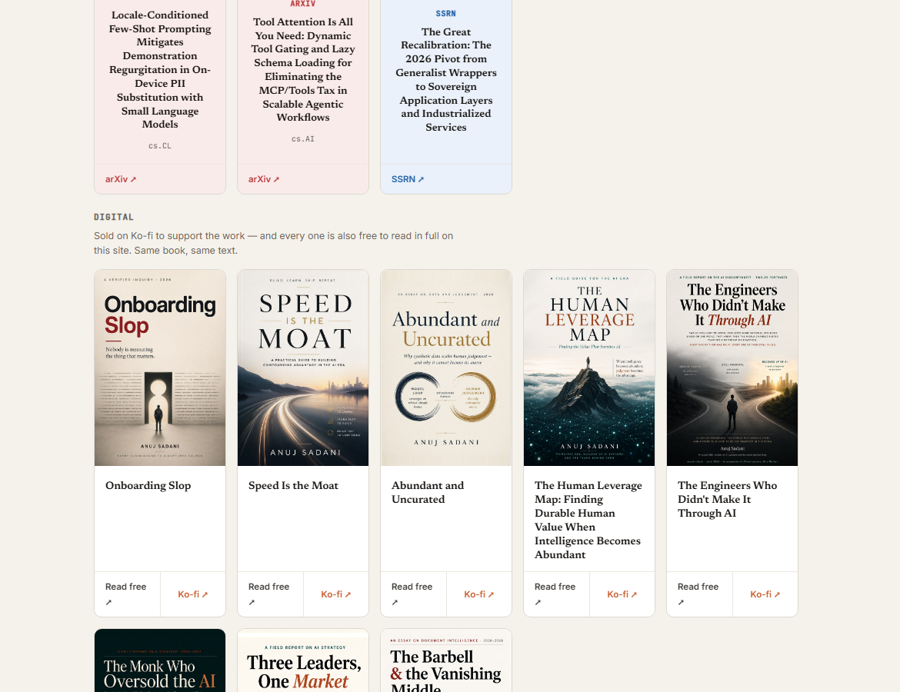
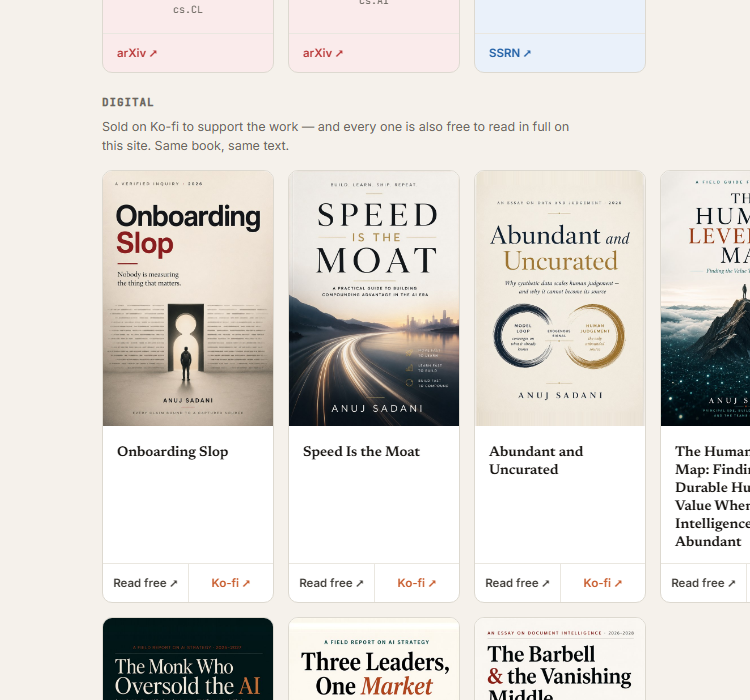
Shorten the hosted link to "Read"
The note under the heading already says the hosted edition is free and
identical, so the button does not need to repeat it -- and the word
"free" sitting directly beside a paid link quietly argues against the
paid one.

Claude-Session: https://claude.ai/code/session_01RrcapMg3di6TjNiqiNoHhH

diff --git a/index.html b/index.html
@@ -801,13 +801,13 @@
         <img class="flipcard-cover" src="/assets/covers/onboarding-slop.jpg" alt="Onboarding Slop cover" loading="lazy" decoding="async">
         <span class="flipcard-caption">Onboarding Slop</span>
             </button>
-            <div class="flipcard-linkrow"><a class="flipcard-link flipcard-link--free" href="/onboarding-slop/">Read free ↗</a><a class="flipcard-link" href="https://ko-fi.com/s/c0d90b0885" target="_blank" rel="noopener">Ko-fi ↗</a></div>
+            <div class="flipcard-linkrow"><a class="flipcard-link flipcard-link--free" href="/onboarding-slop/">Read ↗</a><a class="flipcard-link" href="https://ko-fi.com/s/c0d90b0885" target="_blank" rel="noopener">Ko-fi ↗</a></div>
           </div>
           <div class="flipcard-face flipcard-back">
             <button class="flipcard-toggle" type="button" aria-expanded="false" aria-label="Hide details for Onboarding Slop">
         <span class="flipcard-desc">Onboarding a new engineer quietly became a link to a knowledge base and a link to an assistant — ask it anything. The feedback loop that would catch the cost is broken in a known direction: two unrelated studies found what people report about an AI tool comes apart from what measurement shows they learned, and the error favours whatever felt smoothest. The studies that test understanding run for an hour; the ones that run for weeks count merged code; nothing occupies the space between. The mistake is not adopting AI. It is adopting autonomy.</span>
             </button>
-            <div class="flipcard-linkrow"><a class="flipcard-link flipcard-link--free" href="/onboarding-slop/">Read free ↗</a><a class="flipcard-link" href="https://ko-fi.com/s/c0d90b0885" target="_blank" rel="noopener">Ko-fi ↗</a></div>
+            <div class="flipcard-linkrow"><a class="flipcard-link flipcard-link--free" href="/onboarding-slop/">Read ↗</a><a class="flipcard-link" href="https://ko-fi.com/s/c0d90b0885" target="_blank" rel="noopener">Ko-fi ↗</a></div>
           </div>
         </div>
       </div>
@@ -818,13 +818,13 @@
         <img class="flipcard-cover" src="/assets/covers/speed-is-the-moat.jpg" alt="Speed Is the Moat cover" loading="lazy" decoding="async">
         <span class="flipcard-caption">Speed Is the Moat</span>
             </button>
-            <div class="flipcard-linkrow"><a class="flipcard-link flipcard-link--free" href="/speed-is-the-moat/">Read free ↗</a><a class="flipcard-link" href="https://ko-fi.com/s/17808b2e0b" target="_blank" rel="noopener">Ko-fi ↗</a></div>
+            <div class="flipcard-linkrow"><a class="flipcard-link flipcard-link--free" href="/speed-is-the-moat/">Read ↗</a><a class="flipcard-link" href="https://ko-fi.com/s/17808b2e0b" target="_blank" rel="noopener">Ko-fi ↗</a></div>
           </div>
           <div class="flipcard-face flipcard-back">
             <button class="flipcard-toggle" type="button" aria-expanded="false" aria-label="Hide details for Speed Is the Moat">
         <span class="flipcard-desc">Once token cost is understood, the claim goes, inference speed is the next durable advantage. It isn't — speed is a lead with a half-life of one to two months, with inference software delivering up to 2x more throughput on unchanged silicon inside a single month. What survives is narrower: latency is a priced contract term, not an engineering win. The cover states the proposition; the book is the audit.</span>
             </button>
-            <div class="flipcard-linkrow"><a class="flipcard-link flipcard-link--free" href="/speed-is-the-moat/">Read free ↗</a><a class="flipcard-link" href="https://ko-fi.com/s/17808b2e0b" target="_blank" rel="noopener">Ko-fi ↗</a></div>
+            <div class="flipcard-linkrow"><a class="flipcard-link flipcard-link--free" href="/speed-is-the-moat/">Read ↗</a><a class="flipcard-link" href="https://ko-fi.com/s/17808b2e0b" target="_blank" rel="noopener">Ko-fi ↗</a></div>
           </div>
         </div>
       </div>
@@ -835,13 +835,13 @@
         <img class="flipcard-cover" src="/assets/covers/abundant-and-uncurated.jpg" alt="Abundant and Uncurated cover" loading="lazy" decoding="async">
         <span class="flipcard-caption">Abundant and Uncurated</span>
             </button>
-            <div class="flipcard-linkrow"><a class="flipcard-link flipcard-link--free" href="/abundant-and-uncurated/">Read free ↗</a><a class="flipcard-link" href="https://ko-fi.com/s/000d383639" target="_blank" rel="noopener">Ko-fi ↗</a></div>
+            <div class="flipcard-linkrow"><a class="flipcard-link flipcard-link--free" href="/abundant-and-uncurated/">Read ↗</a><a class="flipcard-link" href="https://ko-fi.com/s/000d383639" target="_blank" rel="noopener">Ko-fi ↗</a></div>
           </div>
           <div class="flipcard-face flipcard-back">
             <button class="flipcard-toggle" type="button" aria-expanded="false" aria-label="Hide details for Abundant and Uncurated">
         <span class="flipcard-desc">Machine judgement already beats human annotation on accuracy and cost, so the case for keeping people in the loop cannot rest on being better. A model that verifies its own synthetic data plateaus at what it already knows, and evaluation criteria cannot be fixed before you look at the outputs. Machines apply judgement; humans form the criteria and supply the signal from outside the system. Every claim bound to a quoted source, including the two that failed.</span>
             </button>
-            <div class="flipcard-linkrow"><a class="flipcard-link flipcard-link--free" href="/abundant-and-uncurated/">Read free ↗</a><a class="flipcard-link" href="https://ko-fi.com/s/000d383639" target="_blank" rel="noopener">Ko-fi ↗</a></div>
+            <div class="flipcard-linkrow"><a class="flipcard-link flipcard-link--free" href="/abundant-and-uncurated/">Read ↗</a><a class="flipcard-link" href="https://ko-fi.com/s/000d383639" target="_blank" rel="noopener">Ko-fi ↗</a></div>
           </div>
         </div>
       </div>
@@ -852,13 +852,13 @@
         <img class="flipcard-cover" src="/assets/covers/the-human-leverage-map.jpg" alt="The Human Leverage Map: Finding Durable Human Value When Intelligence Becomes Abundant cover" loading="lazy" decoding="async">
         <span class="flipcard-caption">The Human Leverage Map: Finding Durable Human Value When Intelligence Becomes Abundant</span>
             </button>
-            <div class="flipcard-linkrow"><a class="flipcard-link flipcard-link--free" href="/the-human-leverage-map/">Read free ↗</a><a class="flipcard-link" href="https://ko-fi.com/s/2806feff25" target="_blank" rel="noopener">Ko-fi ↗</a></div>
+            <div class="flipcard-linkrow"><a class="flipcard-link flipcard-link--free" href="/the-human-leverage-map/">Read ↗</a><a class="flipcard-link" href="https://ko-fi.com/s/2806feff25" target="_blank" rel="noopener">Ko-fi ↗</a></div>
           </div>
           <div class="flipcard-face flipcard-back">
             <button class="flipcard-toggle" type="button" aria-expanded="false" aria-label="Hide details for The Human Leverage Map: Finding Durable Human Value When Intelligence Becomes Abundant">
         <span class="flipcard-desc">When intelligence becomes abundant and cheap, judgment becomes scarce. A two-axis map for finding the human value that survives AI: where your leverage goes when the machine can produce the answer, how that leverage collapses without anyone noticing, and how to defend the faculty it depends on. The full designed PDF.</span>
             </button>
-            <div class="flipcard-linkrow"><a class="flipcard-link flipcard-link--free" href="/the-human-leverage-map/">Read free ↗</a><a class="flipcard-link" href="https://ko-fi.com/s/2806feff25" target="_blank" rel="noopener">Ko-fi ↗</a></div>
+            <div class="flipcard-linkrow"><a class="flipcard-link flipcard-link--free" href="/the-human-leverage-map/">Read ↗</a><a class="flipcard-link" href="https://ko-fi.com/s/2806feff25" target="_blank" rel="noopener">Ko-fi ↗</a></div>
           </div>
         </div>
       </div>
@@ -869,13 +869,13 @@
         <img class="flipcard-cover" src="/assets/covers/the-failed-engineer.jpg" alt="The Engineers Who Didn't Make It Through AI cover" loading="lazy" decoding="async">
         <span class="flipcard-caption">The Engineers Who Didn't Make It Through AI</span>
             </button>
-            <div class="flipcard-linkrow"><a class="flipcard-link flipcard-link--free" href="/the-failed-engineer/">Read free ↗</a><a class="flipcard-link" href="https://ko-fi.com/s/70b71a3671" target="_blank" rel="noopener">Ko-fi ↗</a></div>
+            <div class="flipcard-linkrow"><a class="flipcard-link flipcard-link--free" href="/the-failed-engineer/">Read ↗</a><a class="flipcard-link" href="https://ko-fi.com/s/70b71a3671" target="_blank" rel="noopener">Ko-fi ↗</a></div>
           </div>
           <div class="flipcard-face flipcard-back">
             <button class="flipcard-toggle" type="button" aria-expanded="false" aria-label="Hide details for The Engineers Who Didn't Make It Through AI">
         <span class="flipcard-desc">Twelve brilliant principal engineers made rational decisions based on the world they knew, then the world changed faster than their optimization function. The Craftsman, the Skeptic, the Lone Expert, the Builder: twelve failure modes of senior technical leadership during a discontinuity, braided into one argument. A companion to Three Leaders, One Market, turned on people instead of firms. No villains, only people who optimized for a reality that stopped existing.</span>
             </button>
-            <div class="flipcard-linkrow"><a class="flipcard-link flipcard-link--free" href="/the-failed-engineer/">Read free ↗</a><a class="flipcard-link" href="https://ko-fi.com/s/70b71a3671" target="_blank" rel="noopener">Ko-fi ↗</a></div>
+            <div class="flipcard-linkrow"><a class="flipcard-link flipcard-link--free" href="/the-failed-engineer/">Read ↗</a><a class="flipcard-link" href="https://ko-fi.com/s/70b71a3671" target="_blank" rel="noopener">Ko-fi ↗</a></div>
           </div>
         </div>
       </div>
@@ -886,13 +886,13 @@
         <img class="flipcard-cover" src="/assets/covers/the-monk-who-oversold-the-ai.jpg" alt="The Monk Who Oversold the AI cover" loading="lazy" decoding="async">
         <span class="flipcard-caption">The Monk Who Oversold the AI</span>
             </button>
-            <div class="flipcard-linkrow"><a class="flipcard-link flipcard-link--free" href="/the-monk-who-oversold-the-ai/">Read free ↗</a><a class="flipcard-link" href="https://ko-fi.com/s/02e8517c71" target="_blank" rel="noopener">Ko-fi ↗</a></div>
+            <div class="flipcard-linkrow"><a class="flipcard-link flipcard-link--free" href="/the-monk-who-oversold-the-ai/">Read ↗</a><a class="flipcard-link" href="https://ko-fi.com/s/02e8517c71" target="_blank" rel="noopener">Ko-fi ↗</a></div>
           </div>
           <div class="flipcard-face flipcard-back">
             <button class="flipcard-toggle" type="button" aria-expanded="false" aria-label="Hide details for The Monk Who Oversold the AI">
         <span class="flipcard-desc">Why borrowed foundation-model capability is shared capability — how a product leader scales on it for two years and still dissolves the only moat the product had.</span>
             </button>
-            <div class="flipcard-linkrow"><a class="flipcard-link flipcard-link--free" href="/the-monk-who-oversold-the-ai/">Read free ↗</a><a class="flipcard-link" href="https://ko-fi.com/s/02e8517c71" target="_blank" rel="noopener">Ko-fi ↗</a></div>
+            <div class="flipcard-linkrow"><a class="flipcard-link flipcard-link--free" href="/the-monk-who-oversold-the-ai/">Read ↗</a><a class="flipcard-link" href="https://ko-fi.com/s/02e8517c71" target="_blank" rel="noopener">Ko-fi ↗</a></div>
           </div>
         </div>
       </div>
@@ -903,13 +903,13 @@
         <img class="flipcard-cover" src="/assets/covers/three-leaders-one-market.jpg" alt="Three Leaders, One Market: A Field Report on Why Good AI Strategies Still Fail cover" loading="lazy" decoding="async">
         <span class="flipcard-caption">Three Leaders, One Market: A Field Report on Why Good AI Strategies Still Fail</span>
             </button>
-            <div class="flipcard-linkrow"><a class="flipcard-link flipcard-link--free" href="/three-leaders-one-market/">Read free ↗</a><a class="flipcard-link" href="https://ko-fi.com/s/b7efb1eb2e" target="_blank" rel="noopener">Ko-fi ↗</a></div>
+            <div class="flipcard-linkrow"><a class="flipcard-link flipcard-link--free" href="/three-leaders-one-market/">Read ↗</a><a class="flipcard-link" href="https://ko-fi.com/s/b7efb1eb2e" target="_blank" rel="noopener">Ko-fi ↗</a></div>
           </div>
           <div class="flipcard-face flipcard-back">
             <button class="flipcard-toggle" type="button" aria-expanded="false" aria-label="Hide details for Three Leaders, One Market: A Field Report on Why Good AI Strategies Still Fail">
         <span class="flipcard-desc">A field report on good-faith failure: three experienced leaders, three defensible AI strategies in one market, and why all three fail as the market keeps moving what it rewards.</span>
             </button>
-            <div class="flipcard-linkrow"><a class="flipcard-link flipcard-link--free" href="/three-leaders-one-market/">Read free ↗</a><a class="flipcard-link" href="https://ko-fi.com/s/b7efb1eb2e" target="_blank" rel="noopener">Ko-fi ↗</a></div>
+            <div class="flipcard-linkrow"><a class="flipcard-link flipcard-link--free" href="/three-leaders-one-market/">Read ↗</a><a class="flipcard-link" href="https://ko-fi.com/s/b7efb1eb2e" target="_blank" rel="noopener">Ko-fi ↗</a></div>
           </div>
         </div>
       </div>
@@ -920,13 +920,13 @@
         <img class="flipcard-cover" src="/assets/covers/the-idp-barbell.jpg" alt="The Barbell &amp; The Vanishing Middle: IDP cover" loading="lazy" decoding="async">
         <span class="flipcard-caption">The Barbell &amp; The Vanishing Middle: IDP</span>
             </button>
-            <div class="flipcard-linkrow"><a class="flipcard-link flipcard-link--free" href="/idp-barbell/">Read free ↗</a><a class="flipcard-link" href="https://ko-fi.com/s/3be014f2e6" target="_blank" rel="noopener">Ko-fi ↗</a></div>
+            <div class="flipcard-linkrow"><a class="flipcard-link flipcard-link--free" href="/idp-barbell/">Read ↗</a><a class="flipcard-link" href="https://ko-fi.com/s/3be014f2e6" target="_blank" rel="noopener">Ko-fi ↗</a></div>
           </div>
           <div class="flipcard-face flipcard-back">
             <button class="flipcard-toggle" type="button" aria-expanded="false" aria-label="Hide details for The Barbell &amp; The Vanishing Middle: IDP">
         <span class="flipcard-desc">Where intelligent document processing is heading through 2028 — value migrating to infrastructure and decision automation while the extraction middle becomes invisible, not simple.</span>
             </button>
-            <div class="flipcard-linkrow"><a class="flipcard-link flipcard-link--free" href="/idp-barbell/">Read free ↗</a><a class="flipcard-link" href="https://ko-fi.com/s/3be014f2e6" target="_blank" rel="noopener">Ko-fi ↗</a></div>
+            <div class="flipcard-linkrow"><a class="flipcard-link flipcard-link--free" href="/idp-barbell/">Read ↗</a><a class="flipcard-link" href="https://ko-fi.com/s/3be014f2e6" target="_blank" rel="noopener">Ko-fi ↗</a></div>
           </div>
         </div>
       </div>

diff --git a/build.js b/build.js
@@ -76,7 +76,7 @@ function venueLink(v, url){
 function linkStrip(v, item, type){
   const paid = venueLink(v, item.url);
   if(type !== 'digital' || !item.hosted) return paid;
-  const free = `<a class="flipcard-link flipcard-link--free" href="${escAttr(item.hosted)}">Read free ↗</a>`;
+  const free = `<a class="flipcard-link flipcard-link--free" href="${escAttr(item.hosted)}">Read ↗</a>`;
   return `<div class="flipcard-linkrow">${free}${paid}</div>`;
 }
 
